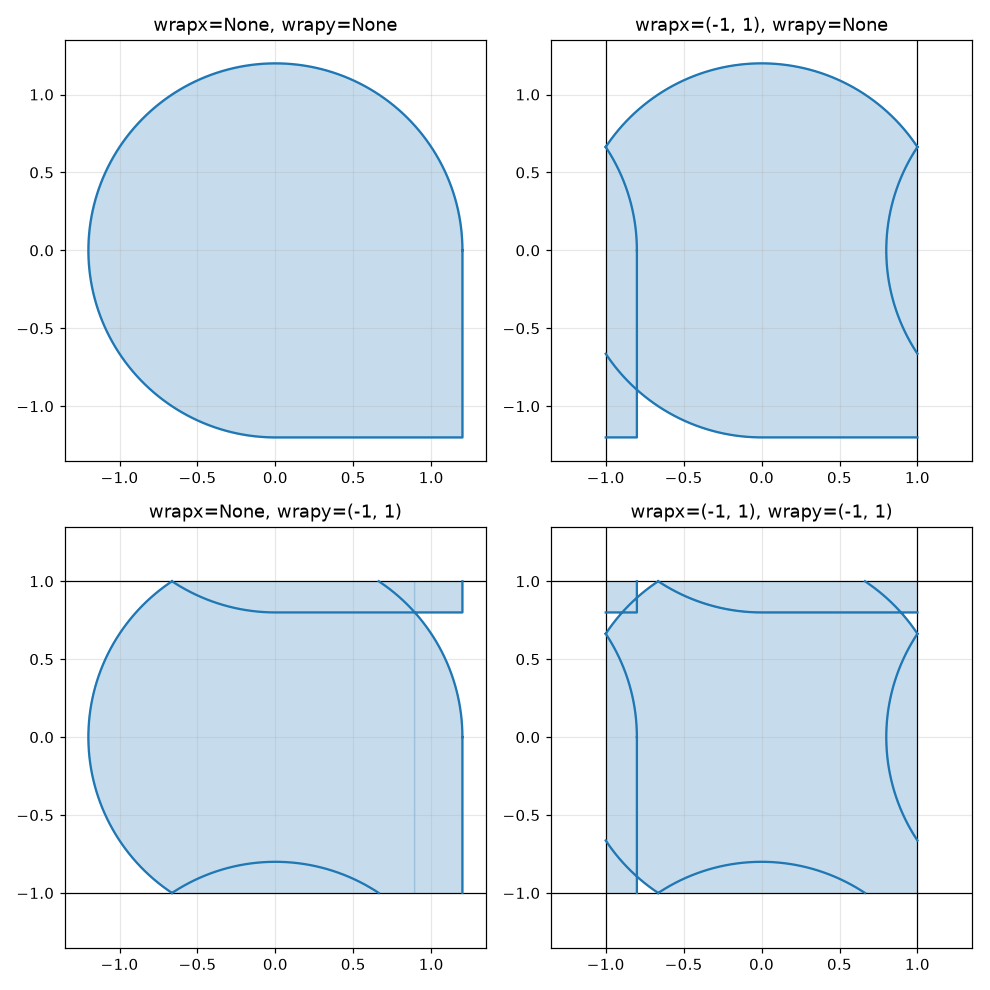
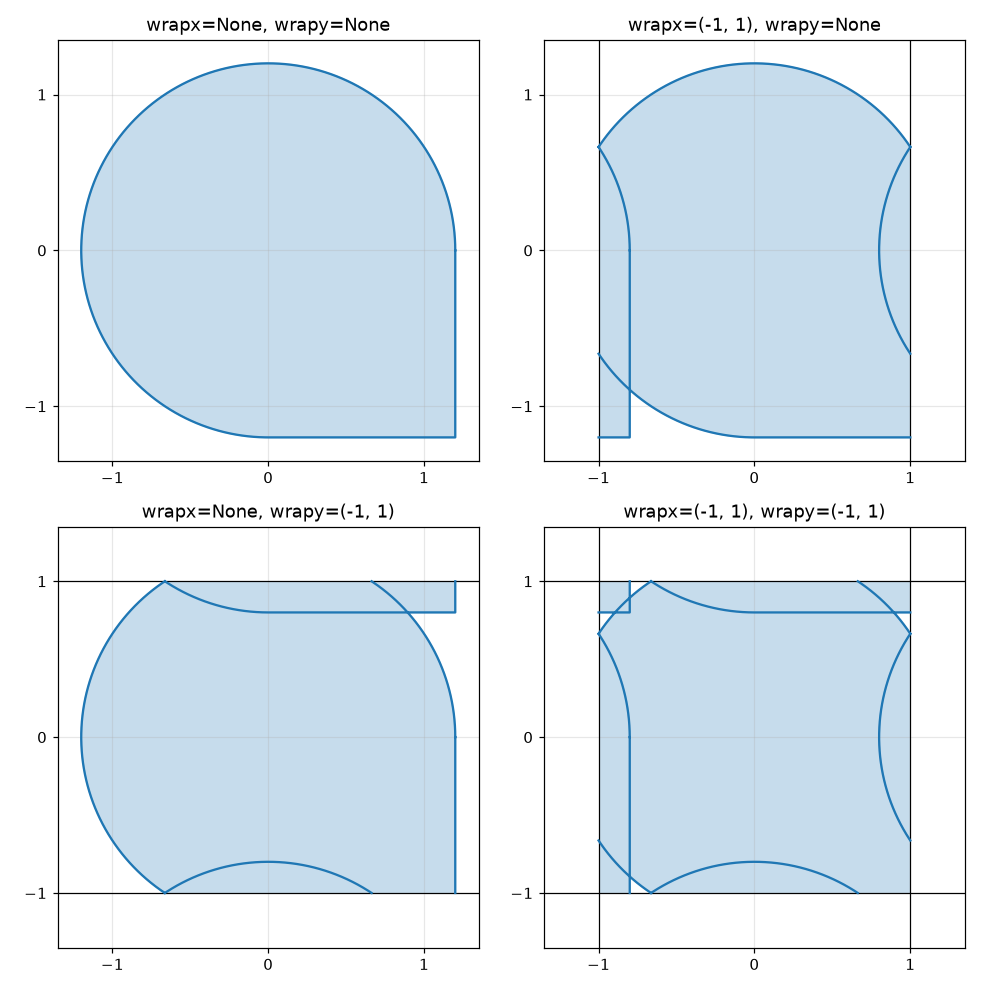
Regen graphics

diff --git a/docs/gen_graphics.py b/docs/gen_graphics.py
@@ -12,6 +12,7 @@ import numpy as np
 from matplotlib.axes import Axes
 from matplotlib.collections import LineCollection
 from matplotlib.colors import Normalize
+from matplotlib.ticker import MultipleLocator
 
 from mpl_wrap import (
     fill_between_wrapped,
@@ -75,14 +76,19 @@ def wrapy_demo(savedir: Path = SAVEDIR) -> None:
             ax.set_ylim(wrapy[0] - 0.05 * period, wrapy[1] + 0.05 * period)
 
     axs[0].set_title("Unwrapped")
+    for y in (0, 360):
+        axs[0].axhline(y, color="k", alpha=0.8, linewidth=1)
+    axs[0].yaxis.set_major_locator(MultipleLocator(period))
     axs[0].fill_between(x, lower, upper, **band_style)
     axs[0].plot(x, center, **line_style)
 
     axs[1].set_title("Modulus (y % 360)")
+    axs[1].yaxis.set_major_locator(MultipleLocator(90.0))
     axs[1].fill_between(x, lower % period, upper % period, **band_style)
     axs[1].plot(x, center % period, **line_style)
 
     axs[2].set_title("mpl_wrap")
+    axs[2].yaxis.set_major_locator(MultipleLocator(90.0))
     fill_between_wrapped(axs[2], x, lower, upper, **band_style)
     plot_wrapped(axs[2], x, center, **line_style)
 
@@ -119,6 +125,8 @@ def circle_demo(savedir: Path = SAVEDIR) -> None:
             set_wrap(ax, wrapx=wrapx, wrapy=wrapy, set_lims=False, seam_lines=True)
             fill_between_wrapped(ax, x_fill, lower, semi, color="C0", alpha=0.25)
             plot_wrapped(ax, x, y, color="C0")
+            ax.yaxis.set_major_locator(MultipleLocator(window[1]))
+            ax.xaxis.set_major_locator(MultipleLocator(window[1]))
             ax.set(xlim=(-pad, pad), ylim=(-pad, pad))
 
     _save_demo(fig, savedir, "circle_demo.png")
